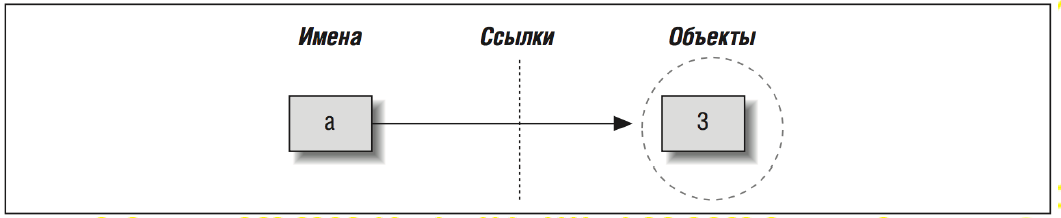
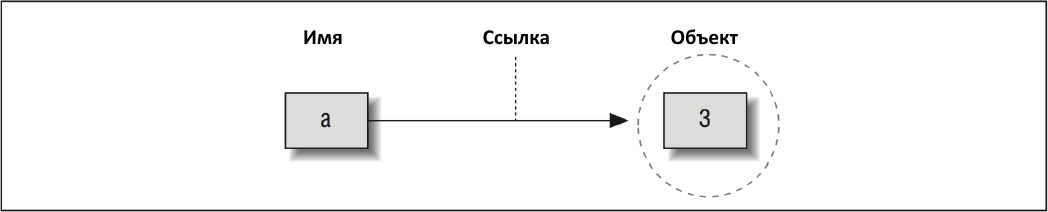
Изменения в разделе Переменные и типы данных

diff --git a/lesson1/lesson1.9.md b/lesson1/lesson1.9.md
@@ -1,30 +1,92 @@
-## Типы объектов языка Python
+## Переменные и типы данных языка Python
 
-Типы данных принято делить на два вида: встроенные и определённые пользователем.
+#### Переменные
 
-Зачем нужны встроенные типы данных (объекты)?
+Переменные предназначены для хранения информации с целью последующего её использования в другом месте программного кода. В Python переменная состоит из двух элементов: имени и ссылки на объект, при этом сам объект может создаваться вместе с переменной или уже существовать в памяти.
 
-- Встроенные объекты упрощают создание программ. Так как избавляют от необходимости реализации структур данных.
-- Встроенные объекты – это компоненты расширений. Для решения сложных задач вы можете создавать собственные объекты, используя для этого встроенные классы языка Python
-- Встроенные объекты часто более эффективны, чем созданные вручную структуры данных. Встроенные типы языка Python используют уже оптимизированные структуры данных, реализованные на языке C для достижения высокой производительности
-- Встроенные объекты – это стандартная часть языка. В определенной степени Python многое заимствует как из языков, полагающихся на использование встроенных инструментальных средств (таких как LISP), так и полагающихся на мастерство программиста, который должен выполнить собственную реализацию инструментов и структур данных (таких как C++). В языке Python можно создавать собственные типы объектов, но в самом начале делать это не рекомендуется. Более того, из-за того, что встроенные компоненты являются стандартными составляющими языка Python, они всегда остаются неизменными, тогда как собственные структуры имеют свойство изменяться от случая к случаю.
+В следующем фрагменте кода создаётся переменная с именем `a`, в памяти создаётся объект `3` и между ними устанавливается связь:
+
+```python
+a = 3
+```
+
+- Имена – это записи в системной таблице. В этой же таблице предусмотрено место для хранения ссылок на объекты.
+- Объекты – это области памяти с объемом, достаточным для представления значений этих объектов. Каждый объект имеет два стандартных поля: описатель типа, используемый для хранения информации о типе объекта, и счетчик ссылок, используемый для определения момента, когда память, занимаемая объектом, может быть освобождена.
+- Ссылки – это связь имени с объектом.
+
+![](./img/l1.1_link.png)
+
+У уже созданной переменной можно изменить ссылку выполнив повторное присваивание. При этом первый объект останется "висеть" в памяти как мусор. Через некоторое время мусорные объекты удаляются сборщиком мусора ([garbage collector](https://habr.com/ru/post/417215/)). Есть объекты, которые сборщик мусора не удаляет с целью оптимизации выполнения кода, но на данном этапе знакомства с Python это для нас не важно.
+
+```python
+a = 3
+a = 7
+```
+
+![](./img/l1.1_relink.png)
+
+После создания, переменную можно использовать в любом месте программы, при этом она будет давать доступ к объекту на который ссылается в данный момент:
+
+```python
+a = 3
+print(a) # 3
+a = 7
+print(b) # 7
+```
+
+Попытка использования не созданной (объявленной) переменной приведёт к ошибке:
+
+```python
+print(a)
+# NameError: name 'a' is not defined
+```
+
+#### Типы данных
+
+В Python 3 существует большое количество встроенных типов данных. 
+
+Зачем данным нужен тип?
+
+- Тип данных определяет занимаемый размер и способ представления данных в памяти. В большинстве случаев, память компьютера - это набор ячеек, каждая из которые может принимать одно из двух возможных значений: 0 или 1. Например последовательность бит `01000000` может означать целое число 64, символ ASCII таблицы @ или что-нибудь другое. Без указания типа данных точно узнать не получится.
+- Тип данных определяет множество допустимых значений. Например: вещественные числа (тип float) в Python ограничены сверху значением max=1.7976931348623157⋅10<sup>308</sup>. Это означает, что сохранить в переменную типа float значение 1.8⋅10<sup>308</sup> уже не получится. При попытке прочитать данные из переменной вы получите inf, т.е. бесконечность.
+- Тип данных определяет набор допустимых операций и правила работы операторов. Например: если применить к двум целым числам 4 и 5 оператор `+`, то в результате мы получим новое целое число, равное их сумме, т.е. 9. Если применить тот же оператор к двум строкам '4' и '5', то в результатом будет новая строка: '45'. При этом оператор `-` прекрасно работает с целыми числами, но вообще не применим к строкам.
+
+Типы данных принято делить на два вида: встроенные и определённые пользователем. На начальном этапе обучения создавать свои типы не потребуется, т.к. стандартная библиотека Python уже включает самые часто применяемые типы данных.
+
+Зачем нужны встроенные типы данных?
+
+- Встроенные объекты упрощают создание программ. Так как избавляют от необходимости реализации собственных структур данных.
+- Встроенные объекты часто более эффективны, чем аналогичные, но созданные вручную. Встроенные типы языка Python используют уже оптимизированные структуры данных, реализованные на языке C для достижения высокой производительности.
+- Встроенные объекты являются стандартными составляющими языка Python и по этому они хорошо документированы и известны всем разработчикам. Это позволяет легко читать чужой или, давно забытый, свой код.
+- Интерфейс встроенных типов практически всегда остаётся неизменными, тогда как собственные структуры имеют свойство изменяться от случая к случаю.
 
 Мы рассмотрим следующие встроенные типы данных:
 
-- Числа (7382, 3.14, 3+4j, Decimal, Fraction)
-- Строки ('net', "your's", u'радость')
-- Списки ([1, [2, 'three'], 4])
-- Словари ({'Alex': 2, 'Brian': 4})
-- Кортежи ('Leo', 21.7, 'single')
-- Множества (set(1,2,3), {'a', 'b', 'c'})
-- Файлы (open('myfile', 'r'))
+- Числа: `1382, 3.14, 3+4j, Decimal, Fraction`
+- Строки: `'net', "your's", '''радость'''`
+- Списки: `[1, [2, 'three'], 4]`
+- Словари: `{'Alex': 2, 'Brian': 4}`
+- Кортежи: `('Leo', 21.7, 'single')`
+- Множества: `set(1,2,3), {'a', 'b', 'c'}`
+- Файлы: `open('myfile', 'r')`
+- NoneType: `None`
 
-**Динамическая типизация**
+Для определения типа объекта, с которым в данный момент связана переменная, используется функция `type`:
 
-Типы данных в языке Python определяются автоматически во время выполнения, а не в результате объявлений в программном коде. Переменные создаются при выполнении операции присваивания, могут ссылаться на объекты любых типов и им должны быть присвоены некоторые значения, прежде чем к ним можно будет обратиться.
+```python
+a = 3
+print(type(a))
+# <class 'int'>
+```
 
-![img](./img/l1.1_link.png)
+Разные типы данных могут быть преобразованы друг в друга.
 
-- Переменные – это записи в системной таблице, где предусмотрено место для хранения ссылок на объекты.
-- Объекты – это области памяти с объемом, достаточным для представления значений этих объектов. Каждый объект имеет два стандартных поля: описатель типа, используемый для хранения информации о типе объекта, и счетчик ссылок, используемый для определения момента, когда память, занимаемая объектом, может быть освобождена.
-- Ссылки – это указатели на объекты.
+#### Динамическая типизация
+
+Во многих языках программирования, ***при создании*** переменной требуется указать тип данных, который будет в ней хранится, при этом, пока переменная существует, её тип НЕ может быть изменён. Такие языки называются ***статически типизированными***. 
+
+Python - ***динамически типизированный*** язык. Это значит, что создавая переменную её тип указывать не нужно, т.к. каждый раз в процессе присваивания тип переменной будет определятся заново и он может многократно изменяться ***в процессе выполнения*** программы.
+
+На следующем рисунке переменная `d` меняет тип хранимой информации в процессе выполнения программы с `int` на `float`, затем на  `str`:
+
+[![](.\img\l9_dynamic.gif)](http://www.pythontutor.com/visualize.html#code=a%20%3D%201%0Ab%20%3D%201.0%0Ac%20%3D%20'one'%0Ad%20%3D%20a%0Ad%20%3D%20b%0Ad%20%3D%20c&cumulative=true&curInstr=6&heapPrimitives=true&mode=display&origin=opt-frontend.js&py=3&rawInputLstJSON=%5B%5D&textReferences=false)

diff --git a/lesson1/lesson1.15.md b/lesson1/lesson1.15.md
@@ -1,6 +1,6 @@
 ## Полезные ссылки
 
-- [Официальный сайт](https://www.python.org/) - можно скачать сам интерпретатор, а также есть раздел с документацией.
 - [Python](https://ru.wikipedia.org/wiki/Python) - статья на википедии.
+- [Официальный сайт](https://www.python.org/) - можно скачать сам интерпретатор, а также есть раздел с документацией.
 - [Руководство пользователя Jupyter Notebook](https://jupyter.brynmawr.edu/services/public/dblank/Jupyter%20Notebook%20Users%20Manual.ipynb) [англ.] - описание интерфейса и базовых возможностей.
 - [StackOverflow](https://stackoverflow.com/) - популярный форум для вопросов и ответов по программированию. Решения большинства проблем, которые могут возникнуть в процессе программирования, уже есть на StаckOverdflow. Просто используйте поисковик.

diff --git a/lesson1/lesson1.2.md b/lesson1/lesson1.2.md
@@ -1,6 +1,6 @@
 ## О языке программирования Python
 
-Python - это свободный интерпретируемый объектно-ориентированный расширяемый встраиваемый язык программирования высокого уровня.
+[Python](https://ru.wikipedia.org/wiki/Python) - это свободный интерпретируемый объектно-ориентированный расширяемый встраиваемый язык программирования высокого уровня.
 
 - Свободный - все исходные тексты открыты для любого использования, даже коммерческого;
 - Интерпретируемый - в процессе выполнения программы исходный код транслируется в машинные команды при помощи программы-интерпретатора;

diff --git a/lesson1/lesson1.3.md b/lesson1/lesson1.3.md
@@ -1,6 +1,6 @@
 ## Варианты разработки программ
 
-На Python можно заниматься разработкой в разных направлениях: машинное обучение, data science, веб-разработка, разработка под настольные ПК, и т.д.
+На Python можно заниматься разработкой по разным направлениям: машинное обучение, data science, веб-разработка, разработка под настольные ПК, и т.д.
 
 В зависимости от области применения может быть использован различный стек технологий. В процессе обучения можно использовать например:
 

diff --git a/ReadMe.md b/ReadMe.md
@@ -14,7 +14,7 @@
 - [Знакомство с Jupyter Notebook](./lesson1/lesson1.6.md)
 - [Знакомство с Google Colaboratory](./lesson1/lesson1.7.md)
 - [О языке разметки Markdown](./lesson1/lesson1.8.md)
-- [Типы объектов языка Python](./lesson1/lesson1.9.md)
+- [Переменные и типы данных языка Python](./lesson1/lesson1.9.md)
 - [Числа и основные арифметические операции](./lesson1/lesson1.10.md)
 - [Работа со строками](./lesson1/lesson1.11.md)
 - [Логические тип данных. Логические операторы. Операторы ветвления](./lesson1/lesson1.12.md)
